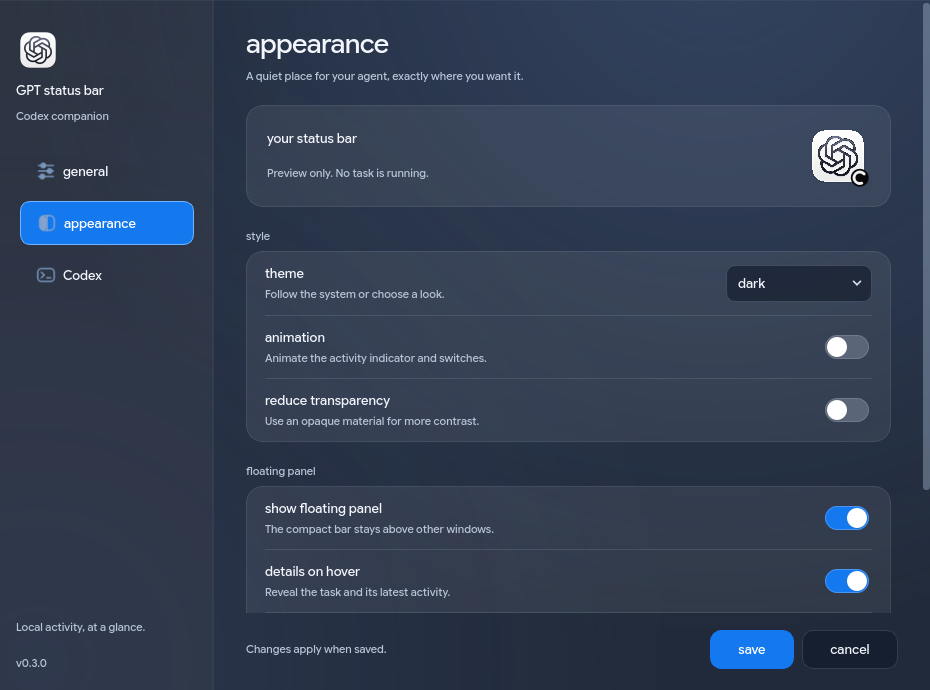
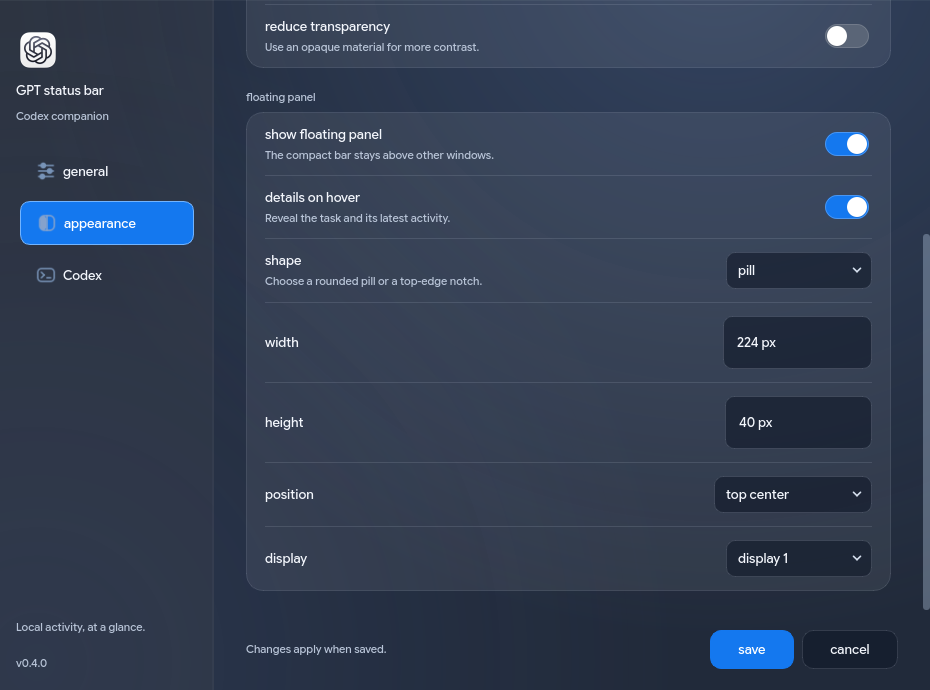
feat: add Linux notch panel controls

diff --git a/src/app.cpp b/src/app.cpp
@@ -12,11 +12,14 @@
 #include <QGuiApplication>
 #include <QHBoxLayout>
 #include <QJsonArray>
+#include <QJsonDocument>
 #include <QLineEdit>
 #include <QMenu>
 #include <QMessageBox>
 #include <QMouseEvent>
 #include <QPainter>
+#include <QPainterPath>
+#include <QProcess>
 #include <QRadioButton>
 #include <QSaveFile>
 #include <QScreen>
@@ -58,7 +61,20 @@ void Companion::paintEvent(QPaintEvent *) {
     p.setRenderHint(QPainter::Antialiasing);
     p.setPen(QPen(QColor("#292929"), 1));
     p.setBrush(QColor("#050505"));
-    p.drawRoundedRect(rect().adjusted(1, 1, -1, -1), 18, 18);
+    if (notch) {
+        const qreal radius = qMin<qreal>(18, height() / 2.0);
+        QPainterPath path;
+        path.moveTo(0, 0);
+        path.lineTo(width(), 0);
+        path.lineTo(width(), height() - radius);
+        path.quadTo(width(), height(), width() - radius, height());
+        path.lineTo(radius, height());
+        path.quadTo(0, height(), 0, height() - radius);
+        path.closeSubpath();
+        p.drawPath(path);
+    } else {
+        p.drawRoundedRect(rect().adjusted(1, 1, -1, -1), height() / 2.0, height() / 2.0);
+    }
 }
 void Companion::mouseReleaseEvent(QMouseEvent *e) {
     if (e->button() == Qt::LeftButton)
@@ -112,8 +128,18 @@ void Companion::place(int index, const QString &position) {
         return;
     const auto area = screens[qBound(0, index, int(screens.size()) - 1)]->availableGeometry();
     const int x = position == "top-right" ? area.right() - width() - 16 : area.center().x() - width() / 2;
-    const int y = position == "bottom" ? area.bottom() - height() - 16 : area.top() + 10;
+    const int y = position == "bottom" ? area.bottom() - height() - 16 : area.top() + (notch ? 0 : 10);
     move(x, y);
+}
+void Companion::setPanelStyle(bool isNotch, int panelWidth, int panelHeight) {
+    notch = isNotch;
+    setFixedSize(panelWidth, panelHeight);
+    const int iconSize = qMin(32, panelHeight - 8);
+    mascot->setFixedSize(iconSize, iconSize);
+    if (auto *layout = qobject_cast<QHBoxLayout *>(this->layout()))
+        layout->setContentsMargins(8, qMax(0, (panelHeight - iconSize) / 2), 14,
+                                   qMax(0, (panelHeight - iconSize) / 2));
+    update();
 }
 QString App::l(const char *en, const char *ru) const {
     return QString::fromUtf8(
@@ -503,6 +529,38 @@ void App::showWindow() {
     showNormal();
     raise();
     activateWindow();
+    keepCompanionAbove();
+}
+void App::keepCompanionAbove() {
+    if (qEnvironmentVariable("XDG_CURRENT_DESKTOP").contains("Hyprland", Qt::CaseInsensitive) &&
+        companion.isVisible()) {
+        const auto selector = QString("pid:%1").arg(QCoreApplication::applicationPid());
+        const QString rule =
+            QStringLiteral(R"(hl.dispatch(hl.dsp.window.pin({ action = "on", window = "%1" })); )")
+                .arg(selector) +
+            QStringLiteral(R"(hl.dispatch(hl.dsp.window.alter_zorder({ mode = "top", window = "%1" })))")
+                .arg(selector);
+        QProcess eval;
+        eval.start("hyprctl", {"eval", rule});
+        if (eval.waitForFinished(600) && eval.exitStatus() == QProcess::NormalExit && eval.exitCode() == 0)
+            return;
+        QProcess clients;
+        clients.start("hyprctl", {"clients", "-j"});
+        if (!clients.waitForFinished(500) || clients.exitStatus() != QProcess::NormalExit ||
+            clients.exitCode())
+            return;
+        const auto windows = QJsonDocument::fromJson(clients.readAllStandardOutput()).array();
+        for (const auto &entry : windows) {
+            const auto window = entry.toObject();
+            if (window.value("class").toString() != "gpt-status-bar" ||
+                window.value("pid").toInt() != QCoreApplication::applicationPid())
+                continue;
+            const QString address = "address:" + window.value("address").toString();
+            QProcess::execute("hyprctl", {"dispatch", "pin", address});
+            QProcess::execute("hyprctl", {"dispatch", "alterzorder", "top", address});
+            return;
+        }
+    }
 }
 void App::applySettings() {
     setWindowTitle(l("GPT status bar", "GPT status bar"));
@@ -515,11 +573,15 @@ void App::applySettings() {
     activity.denyButton->setText(l("deny", "отклонить"));
     activity.quitButton->setVisible(preview || !QSystemTrayIcon::isSystemTrayAvailable());
     companion.hoverEnabled = settings.value("hover", true).toBool();
+    companion.setPanelStyle(settings.value("panelStyle", "pill").toString() == "notch",
+                            qBound(120, settings.value("panelWidth", 224).toInt(), 480),
+                            qBound(32, settings.value("panelHeight", 40).toInt(), 100));
     if (!companion.hoverEnabled && !companion.pinned)
         companion.card->hide();
     companion.place(settings.value("screen", 0).toInt(), settings.value("position", "top").toString());
     companion.setVisible(settings.value("companion", true).toBool() ||
                          !QSystemTrayIcon::isSystemTrayAvailable());
+    QTimer::singleShot(450, this, &App::keepCompanionAbove);
     watcher.setInterval(settings.value("pollSeconds", 3).toInt() * 1000);
     auto *old = tray.contextMenu();
     auto *menu = new QMenu(this);
@@ -758,6 +820,10 @@ void App::capture(const QString &directory) {
     qApp->processEvents();
     dialog->grab().save(QDir(directory).filePath("settings.png"));
     dialog->findChild<QListWidget *>("navigation")->setCurrentRow(1);
+    qApp->processEvents();
+    auto *pages = dialog->findChild<QStackedWidget *>("settingsPages");
+    auto *scroll = qobject_cast<QScrollArea *>(pages->widget(1));
+    scroll->verticalScrollBar()->setValue(scroll->verticalScrollBar()->maximum());
     qApp->processEvents();
     dialog->grab().save(QDir(directory).filePath("appearance.png"));
     dialog->findChild<QListWidget *>("navigation")->setCurrentRow(2);

diff --git a/src/settings.cpp b/src/settings.cpp
@@ -560,6 +560,24 @@ QDialog *App::settingsDialog() {
     settingRow(bar, l("details on hover", "подробности при наведении"),
                l("Reveal the task and its latest activity.", "показывать задачу и последнее действие."),
                hover);
+    auto *panelStyle = makeCombo({{l("pill", "пилюля"), "pill"}, {l("notch", "чёлка"), "notch"}},
+                                 settings.value("panelStyle", "pill").toString(), "panelStyleControl");
+    panelStyle->setAccessibleName(l("panel style", "форма панели"));
+    settingRow(bar, l("shape", "форма"),
+               l("Choose a rounded pill or a top-edge notch.", "пилюля или вырез у верхнего края."),
+               panelStyle);
+    auto *panelWidth = new QSpinBox;
+    panelWidth->setObjectName("panelWidthControl");
+    panelWidth->setRange(120, 480);
+    panelWidth->setSuffix(" px");
+    panelWidth->setValue(settings.value("panelWidth", 224).toInt());
+    settingRow(bar, l("width", "ширина"), {}, panelWidth);
+    auto *panelHeight = new QSpinBox;
+    panelHeight->setObjectName("panelHeightControl");
+    panelHeight->setRange(32, 100);
+    panelHeight->setSuffix(" px");
+    panelHeight->setValue(settings.value("panelHeight", 40).toInt());
+    settingRow(bar, l("height", "высота"), {}, panelHeight);
     for (auto *control : {visible, hover})
         connect(motion, &QCheckBox::toggled, control,
                 [control](bool checked) { control->setAnimated(checked); });
@@ -683,6 +701,9 @@ QDialog *App::settingsDialog() {
         settings.setValue("motion", motion->isChecked());
         settings.setValue("reduceTransparency", transparency->isChecked());
         settings.setValue("companion", visible->isChecked());
+        settings.setValue("panelStyle", panelStyle->currentData());
+        settings.setValue("panelWidth", panelWidth->value());
+        settings.setValue("panelHeight", panelHeight->value());
         settings.setValue("position", position->currentData());
         settings.setValue("screen", screen->currentIndex());
         settings.setValue("notifications", notifications->isChecked());

diff --git a/src/app.h b/src/app.h
@@ -23,8 +23,10 @@ class Companion : public QWidget {
     bool pinned = false;
     void setCard(QWidget *widget);
     bool hoverEnabled = true;
+    bool notch = false;
     void showDetails();
     void place(int screen, const QString &position);
+    void setPanelStyle(bool notch, int width, int height);
   signals:
     void activated();
     void inspecting();
@@ -77,6 +79,7 @@ class App : public QMainWindow {
     void showWindow();
     void requestQuit();
     void applySettings();
+    void keepCompanionAbove();
     QDialog *settingsDialog();
     void newTask();
     void handleRequests();

diff --git a/tests/test_preferences.cpp b/tests/test_preferences.cpp
@@ -28,7 +28,7 @@ class PreferencesTests : public QObject {
         QVERIFY(directory.isValid());
         QCoreApplication::setOrganizationName("status-bar-tests");
         QCoreApplication::setApplicationName("preferences");
-        QCoreApplication::setApplicationVersion("0.3.0");
+        QCoreApplication::setApplicationVersion("0.4.0");
         QSettings::setDefaultFormat(QSettings::IniFormat);
         QSettings::setPath(QSettings::IniFormat, QSettings::UserScope, directory.path());
         qApp->setQuitOnLastWindowClosed(false);

diff --git a/src/main.cpp b/src/main.cpp
@@ -11,7 +11,7 @@ int main(int argc, char *argv[]) {
     QApplication app(argc, argv);
     QCoreApplication::setOrganizationName("sorried");
     QCoreApplication::setApplicationName("gpt-status-bar");
-    QCoreApplication::setApplicationVersion("0.3.0");
+    QCoreApplication::setApplicationVersion("0.4.0");
     app.setQuitOnLastWindowClosed(false);
     QCommandLineParser parser;
     parser.setApplicationDescription("Native desktop companion for OpenAI Codex");

diff --git a/README.md b/README.md
@@ -28,7 +28,7 @@ written in C++17 with Qt 6 Widgets. native desktop executables for Linux, Window
 
 ## get a build
 
-download [v0.3.0](https://github.com/sorried/chatgpt-status-bar/releases/tag/v0.3.0) with its `.sha256` checksum. alternatively, open [desktop builds](https://github.com/sorried/chatgpt-status-bar/actions/workflows/build.yml), select a successful run and download its artifact. GitHub requires signing in to download workflow artifacts. unpack the whole archive so the Qt libraries stay beside the application.
+download [v0.4.0](https://github.com/sorried/chatgpt-status-bar/releases/tag/v0.4.0) with its `.sha256` checksum. alternatively, open [desktop builds](https://github.com/sorried/chatgpt-status-bar/actions/workflows/build.yml), select a successful run and download its artifact. GitHub requires signing in to download workflow artifacts. unpack the whole archive so the Qt libraries stay beside the application.
 
 | build | launch |
 | --- | --- |
@@ -99,7 +99,7 @@ preview uses an isolated settings directory and synthetic data. it does not laun
 - after five minutes without an event, an observed running session is marked **no recent events**. a long silent command may still be running. this is not a completion signal.
 - log observation does not detect every permission wait. direct approval control requires a task launched through this application's server connection. unsupported server requests receive an explicit error.
 - account limits depend on your Codex login and server support. refresh errors are shown in the connection status.
-- on Wayland, window placement and always-on-top behavior depend on the compositor. this application uses a floating panel, not a hardware notch extension.
+- on Hyprland, the Linux panel is pinned above regular windows and across workspaces. other Wayland compositors control stacking and may ignore always-on-top requests. choose pill or notch shape and set panel width and height in Appearance settings. this is a software panel, not a hardware notch extension.
 - this monitors Codex, not browser ChatGPT conversations. it does not include ClaudeNotch's Telegram service, updater or terminal-tab automation.
 
 see [protocol and architecture notes](docs/architecture.md), [third-party notices](docs/third-party.md) and [issues](https://github.com/sorried/chatgpt-status-bar/issues).

diff --git a/docs/releases/v0.4.0.md b/docs/releases/v0.4.0.md
@@ -1,0 +1,15 @@
+## English
+
+- Linux panels on Hyprland can stay above regular windows and across workspaces.
+- choose a pill or notch shape and set the panel width and height in Appearance settings.
+- other Wayland compositors control stacking and may ignore always-on-top requests.
+
+Linux x64, Windows x64 and universal macOS bundles are built and tested in GitHub Actions. archives include Qt dependencies and have SHA-256 checksums. builds are unsigned.
+
+## Русский
+
+- в Hyprland панель Linux закрепляется поверх обычных окон и на всех рабочих столах.
+- в настройках оформления можно выбрать пилюлю или чёлку, а также задать ширину и высоту.
+- другие композиторы Wayland сами управляют порядком окон и могут игнорировать запрос «поверх».
+
+Архивы Linux x64, Windows x64 и macOS universal собираются и тестируются в GitHub Actions. Библиотеки Qt включены, контрольные суммы SHA-256 приложены. Сборки не подписаны.
